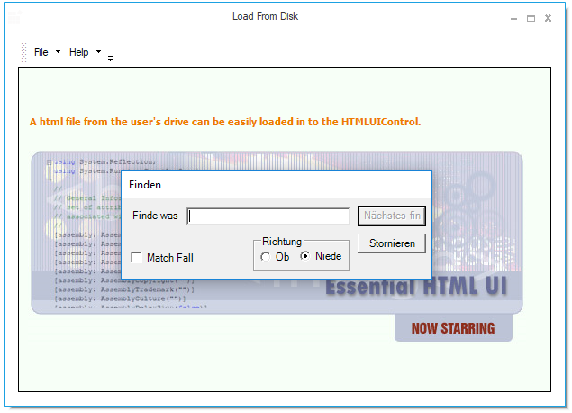
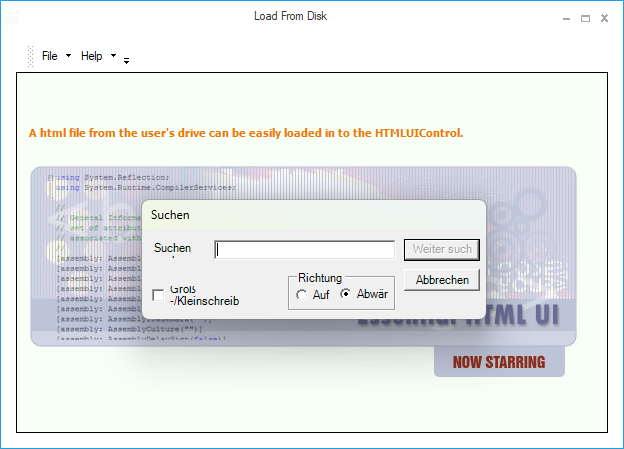
WF-924583 Validation of Translated languages in UG documentation

Changed region(s): [[0.0, 0.0, 1.0, 1.0]]

diff --git a/WindowsForms/Ribbon/Localization-Support.md b/WindowsForms/Ribbon/Localization-Support.md
@@ -79,84 +79,84 @@ class localization : ILocalizationProvider
             {
 
                 case ToolsResourceIdentifiers.CustomizeRibbonDialogButtonAdd:
-                    return "啊錒别 ";
+                    return "添加";
                 case ToolsResourceIdentifiers.CustomizeRibbonDialogButtonRemove:
-                    return "可用呢  ";
+                    return "移除";
                 case ToolsResourceIdentifiers.CustomizeRibbonDialogButtonCancel:
-                    return "锕如如 ";
+                    return "取消";
                 case ToolsResourceIdentifiers.CustomizeRibbonDialogButtonOk:
-                    return "别";
+                    return "确定";
                 case ToolsResourceIdentifiers.CustomizeRibbonDialogButtonReset:
-                    return "地方把小";
+                    return "重置";
                 case ToolsResourceIdentifiers.CustomizeRibbonDialogLabel:
-                    return "都非";
+                    return "自定义功能区";
                 case ToolsResourceIdentifiers.CustomizeRibbonDialogChooseCommands:
-                    return "无后们 ";
+                    return "选择命令";
                 case ToolsResourceIdentifiers.CustomizeRibbonDialogMainTab:
-                    return "无拍  ";
+                    return "主选项卡";
                 case ToolsResourceIdentifiers.CustomizeRibbonDialogButtonNewGroup:
-                    return "才了  ";
+                    return "新建组";
                 case ToolsResourceIdentifiers.CustomizeRibbonDialogButtonNewTab:
-                    return "来把 ";
+                    return "新建选项卡";
                 case ToolsResourceIdentifiers.CustomizeRibbonDialogButtonRename:
-                    return "人额女";
+                    return "重命名";
                 case ToolsResourceIdentifiers.CustomizeRibbonDialogCustomizationLabel:
-                    return "才上 来锕把";
+                    return "自定义选项";
                 case ToolsResourceIdentifiers.CustomizeRibbonDialogCaption:
-                    return "才上 人额女";
+                    return "自定义功能区";
                 case ToolsResourceIdentifiers.CustomizeQuickAccessLabel:
-                    return "才上 来锕把";
+                    return "快速访问工具栏";
                 case ToolsResourceIdentifiers.QuickAccessCustomizeMenu:
-                    return "啊錒别";
+                    return "自定义快速访问工具栏";
                 case ToolsResourceIdentifiers.QuickAccessAddItem:
-                    return "啊錒别";
+                    return "添加项目";
 
                 case ToolsResourceIdentifiers.QuickAccessDialogButtonAdd:
-                    return "啊錒别";
+                    return "添加";
                 case ToolsResourceIdentifiers.QuickAccessDialogButtonCancel:
-                    return "锕如如";
+                    return "取消";
                 case ToolsResourceIdentifiers.QuickAccessDialogButtonOk:
-                    return "别";
+                    return "确定";
                 case ToolsResourceIdentifiers.QuickAccessDialogButtonReset:
-                    return "地方把小";
+                    return "重置";
                 case ToolsResourceIdentifiers.QuickAccessDialogButtonRemove:
-                    return "可用呢";
+                    return "移除";
                 case ToolsResourceIdentifiers.QuickAccessMinimizeTheRibbon:
-                    return "啊錒别 如额呢";
+                    return "最小化功能区";
                 case ToolsResourceIdentifiers.QuickAccessPlaceAboveRibbon:
-                    return "錒为你 啊錒别 ";
+                    return "放置于功能区上方";
                 case ToolsResourceIdentifiers.QuickAccessPlaceBelowRibbon:
-                    return "地方把小 无不的 ";
+                    return "放置于功能区下方";
                 case ToolsResourceIdentifiers.QuickAccessToolBarLabel:
-                    return "地方把小 无不的 ";
+                    return "快速访问工具栏";
 
 
                 case ToolsResourceIdentifiers.CustomizeRibbonDialogRenameCancelButton:
-                    return "锕如如";
+                    return "取消";
                 case ToolsResourceIdentifiers.CustomizeRibbonDialogRenameCaption:
-                    return "如额你啊吗额";
+                    return "重命名";
                 case ToolsResourceIdentifiers.CustomizeRibbonDialogRenameOkButton:
-                    return "别";
+                    return "确定";
                 case ToolsResourceIdentifiers.CustomizeRibbonRenameDisplayLabel:
-                    return "都三片来啊 了阿不";
+                    return "显示名称";
 
                 case ToolsResourceIdentifiers.CustomizationLabel:
-                    return "都三片来啊 了阿不";
+                    return "自定义";
                 case ToolsResourceIdentifiers.CustomizeMenu:
-                    return "都三片来啊 了阿不";
+                    return "自定义";
                 case ToolsResourceIdentifiers.QuickAccessDialogDropDownName:
-                    return "都三片来啊 了阿不";
+                    return "快速访问下拉菜单";
                 case ToolsResourceIdentifiers.QuickAccessCustomizeCaption:
-                    return "都三片来啊 ";
+                    return "快速访问工具栏";
                 case ToolsResourceIdentifiers.QuickAccessDialogCommands:
-                    return "都三片来啊 ";
+                    return "命令";
                 case ToolsResourceIdentifiers.CustomizeRibbonDialogColumnHeader:
-                    return "都三片来啊 ";
+                    return "列标题";
 
                 case ToolsResourceIdentifiers.CustomMenu:
-                    return "都三片来啊 ";
+                    return "自定义菜单";
                 case ToolsResourceIdentifiers.QuickAccessDialogCustomizeRibbon:
-                    return "都三片来啊 ";    
+                    return "自定义功能区";
                 
                 default:
                     return string.Empty;
@@ -176,79 +176,79 @@ Class localization
     Public Function GetLocalizedString(ByVal culture As System.Globalization.CultureInfo, ByVal stringname As String, ByVal obj As Object) As String
         Select Case stringname
             Case ToolsResourceIdentifiers.CustomizeRibbonDialogButtonAdd
-                Return "啊錒别 "
+                Return "添加"
             Case ToolsResourceIdentifiers.CustomizeRibbonDialogButtonRemove
-                Return "可用呢  "
+                Return "移除"
             Case ToolsResourceIdentifiers.CustomizeRibbonDialogButtonCancel
-                Return "锕如如 "
+                Return "取消"
             Case ToolsResourceIdentifiers.CustomizeRibbonDialogButtonOk
-                Return "别"
+                Return "确定"
             Case ToolsResourceIdentifiers.CustomizeRibbonDialogButtonReset
-                Return "地方把小"
+                Return "重置"
             Case ToolsResourceIdentifiers.CustomizeRibbonDialogLabel
-                Return "都非"
+                Return "自定义功能区"
             Case ToolsResourceIdentifiers.CustomizeRibbonDialogChooseCommands
-                Return "无后们 "
+                Return "选择命令"
             Case ToolsResourceIdentifiers.CustomizeRibbonDialogMainTab
-                Return "无拍  "
+                Return "主选项卡"
             Case ToolsResourceIdentifiers.CustomizeRibbonDialogButtonNewGroup
-                Return "才了  "
+                Return "新建组"
             Case ToolsResourceIdentifiers.CustomizeRibbonDialogButtonNewTab
-                Return "来把 "
+                Return "新建选项卡"
             Case ToolsResourceIdentifiers.CustomizeRibbonDialogButtonRename
-                Return "人额女"
+                Return "重命名"
             Case ToolsResourceIdentifiers.CustomizeRibbonDialogCustomizationLabel
-                Return "才上 来锕把"
+                Return "自定义选项"
             Case ToolsResourceIdentifiers.CustomizeRibbonDialogCaption
-                Return "才上 人额女"
+                Return "自定义功能区"
             Case ToolsResourceIdentifiers.CustomizeQuickAccessLabel
-                Return "才上 来锕把"
+                Return "快速访问工具栏"
             Case ToolsResourceIdentifiers.QuickAccessCustomizeMenu
-                Return "啊錒别"
+                Return "自定义快速访问工具栏"
             Case ToolsResourceIdentifiers.QuickAccessAddItem
-                Return "啊錒别"
+                Return "添加项目"
             Case ToolsResourceIdentifiers.QuickAccessDialogButtonAdd
-                Return "啊錒别"
+                Return "添加"
             Case ToolsResourceIdentifiers.QuickAccessDialogButtonCancel
-                Return "锕如如"
+                Return "取消"
             Case ToolsResourceIdentifiers.QuickAccessDialogButtonOk
-                Return "别"
+                Return "确定"
             Case ToolsResourceIdentifiers.QuickAccessDialogButtonReset
-                Return "地方把小"
+                Return "重置"
             Case ToolsResourceIdentifiers.QuickAccessDialogButtonRemove
-                Return "可用呢"
+                Return "移除"
             Case ToolsResourceIdentifiers.QuickAccessMinimizeTheRibbon
-                Return "啊錒别 如额呢"
+                Return "最小化功能区"
             Case ToolsResourceIdentifiers.QuickAccessPlaceAboveRibbon
-                Return "錒为你 啊錒别 "
+                Return "放置于功能区上方"
             Case ToolsResourceIdentifiers.QuickAccessPlaceBelowRibbon
-                Return "地方把小 无不的 "
+                Return "放置于功能区下方"
             Case ToolsResourceIdentifiers.QuickAccessToolBarLabel
-                Return "地方把小 无不的 "
+                Return "快速访问工具栏"
             Case ToolsResourceIdentifiers.CustomizeRibbonDialogRenameCancelButton
-                Return "锕如如"
+                Return "取消"
             Case ToolsResourceIdentifiers.CustomizeRibbonDialogRenameCaption
-                Return "如额你啊吗额"
+                Return "重命名"
             Case ToolsResourceIdentifiers.CustomizeRibbonDialogRenameOkButton
-                Return "别"
+                Return "确定"
             Case ToolsResourceIdentifiers.CustomizeRibbonRenameDisplayLabel
-                Return "都三片来啊 了阿不"
+                Return "显示名称"
             Case ToolsResourceIdentifiers.CustomizationLabel
-                Return "都三片来啊 了阿不"
+                Return "自定义"
             Case ToolsResourceIdentifiers.CustomizeMenu
-                Return "都三片来啊 了阿不"
+                Return "自定义"
             Case ToolsResourceIdentifiers.QuickAccessDialogDropDownName
-                Return "都三片来啊 了阿不"
+                Return "快速访问下拉菜单"
             Case ToolsResourceIdentifiers.QuickAccessCustomizeCaption
-                Return "都三片来啊 "
+                Return "快速访问工具栏"
             Case ToolsResourceIdentifiers.QuickAccessDialogCommands
-                Return "都三片来啊 "
+                Return "命令"
             Case ToolsResourceIdentifiers.CustomizeRibbonDialogColumnHeader
-                Return "都三片来啊 "
+                Return "列标题"
             Case ToolsResourceIdentifiers.CustomMenu
-                Return "都三片来啊 "
+                Return "自定义菜单"
             Case ToolsResourceIdentifiers.QuickAccessDialogCustomizeRibbon
-                Return "都三片来啊 "
+                Return "自定义功能区"
             Case Else
                 Return String.Empty
         End Select

diff --git a/WindowsForms/Html-Viewer/Localization.md b/WindowsForms/Html-Viewer/Localization.md
@@ -41,16 +41,16 @@ public class Localizer : ILocalizationProvider
                 ///
                 ///</summary>
                 case HTMLUIResourceIdentifiers.FindNext:
-                    return "Nächstes finden";
+                    return "Weiter suchen";
 
                 ///<summary>
                 ///
                 ///</summary>                    
                 case HTMLUIResourceIdentifiers.Title:
-                    return "Finden";
+                    return "Suchen";
 
                 case HTMLUIResourceIdentifiers.Cancel:
-                    return "Stornieren";
+                    return "Abbrechen";
 
                 ///<summary>
                 ///
@@ -59,22 +59,22 @@ public class Localizer : ILocalizationProvider
                     return "Richtung";
 
                 case HTMLUIResourceIdentifiers.Down:
-                    return "Nieder";
+                    return "Abwärts";
 
                 ///<summary>
                 ///
                 ///</summary>                    
                 case HTMLUIResourceIdentifiers.FindWhat:
-                    return "Finde was";
+                    return "Suchen nach";
 
                 case HTMLUIResourceIdentifiers.Matchcase:
-                    return "Match Fall";
+                    return "Groß-/Kleinschreibung beachten";
 
                 ///<summary>
                 ///
                 ///</summary>                    
                 case HTMLUIResourceIdentifiers.Up:
-                    return "Oben";
+                    return "Aufwärts";
                 ///<summary>
                 /// default
                 ///</summary>

diff --git a/WindowsForms/Docking-Manager/Localization.md b/WindowsForms/Docking-Manager/Localization.md
@@ -116,28 +116,28 @@ switch (name)
  return "自动隐藏";
 
  case ToolsResourceIdentifiers.FloatingMenuItemText:
- return "漂浮的";
+ return "浮动";
 
  case ToolsResourceIdentifiers.MDIChildMenuItemText:
- return "MDI 子";
+ return "MDI 子窗体";
 
  case ToolsResourceIdentifiers.HideMenuItemText:
  return "隐藏";
 
  case ToolsResourceIdentifiers.MenuItemDockToLeft:
- return "剩下";
+ return "靠左停靠";
 
  case ToolsResourceIdentifiers.MenuItemDockToRight:
- return "对";
+ return "靠右停靠";
 
  case ToolsResourceIdentifiers.MenuItemDockToTop:
-  return "最佳";
+  return "靠上停靠";
 
   case ToolsResourceIdentifiers.MenuItemDockToBottom:
-  return "底部";
+  return "靠下停靠";
 
   case ToolsResourceIdentifiers.MenuItemDockTo:
-  return "码头";
+  return "停靠到";
 
   default:
   return string.Empty;
